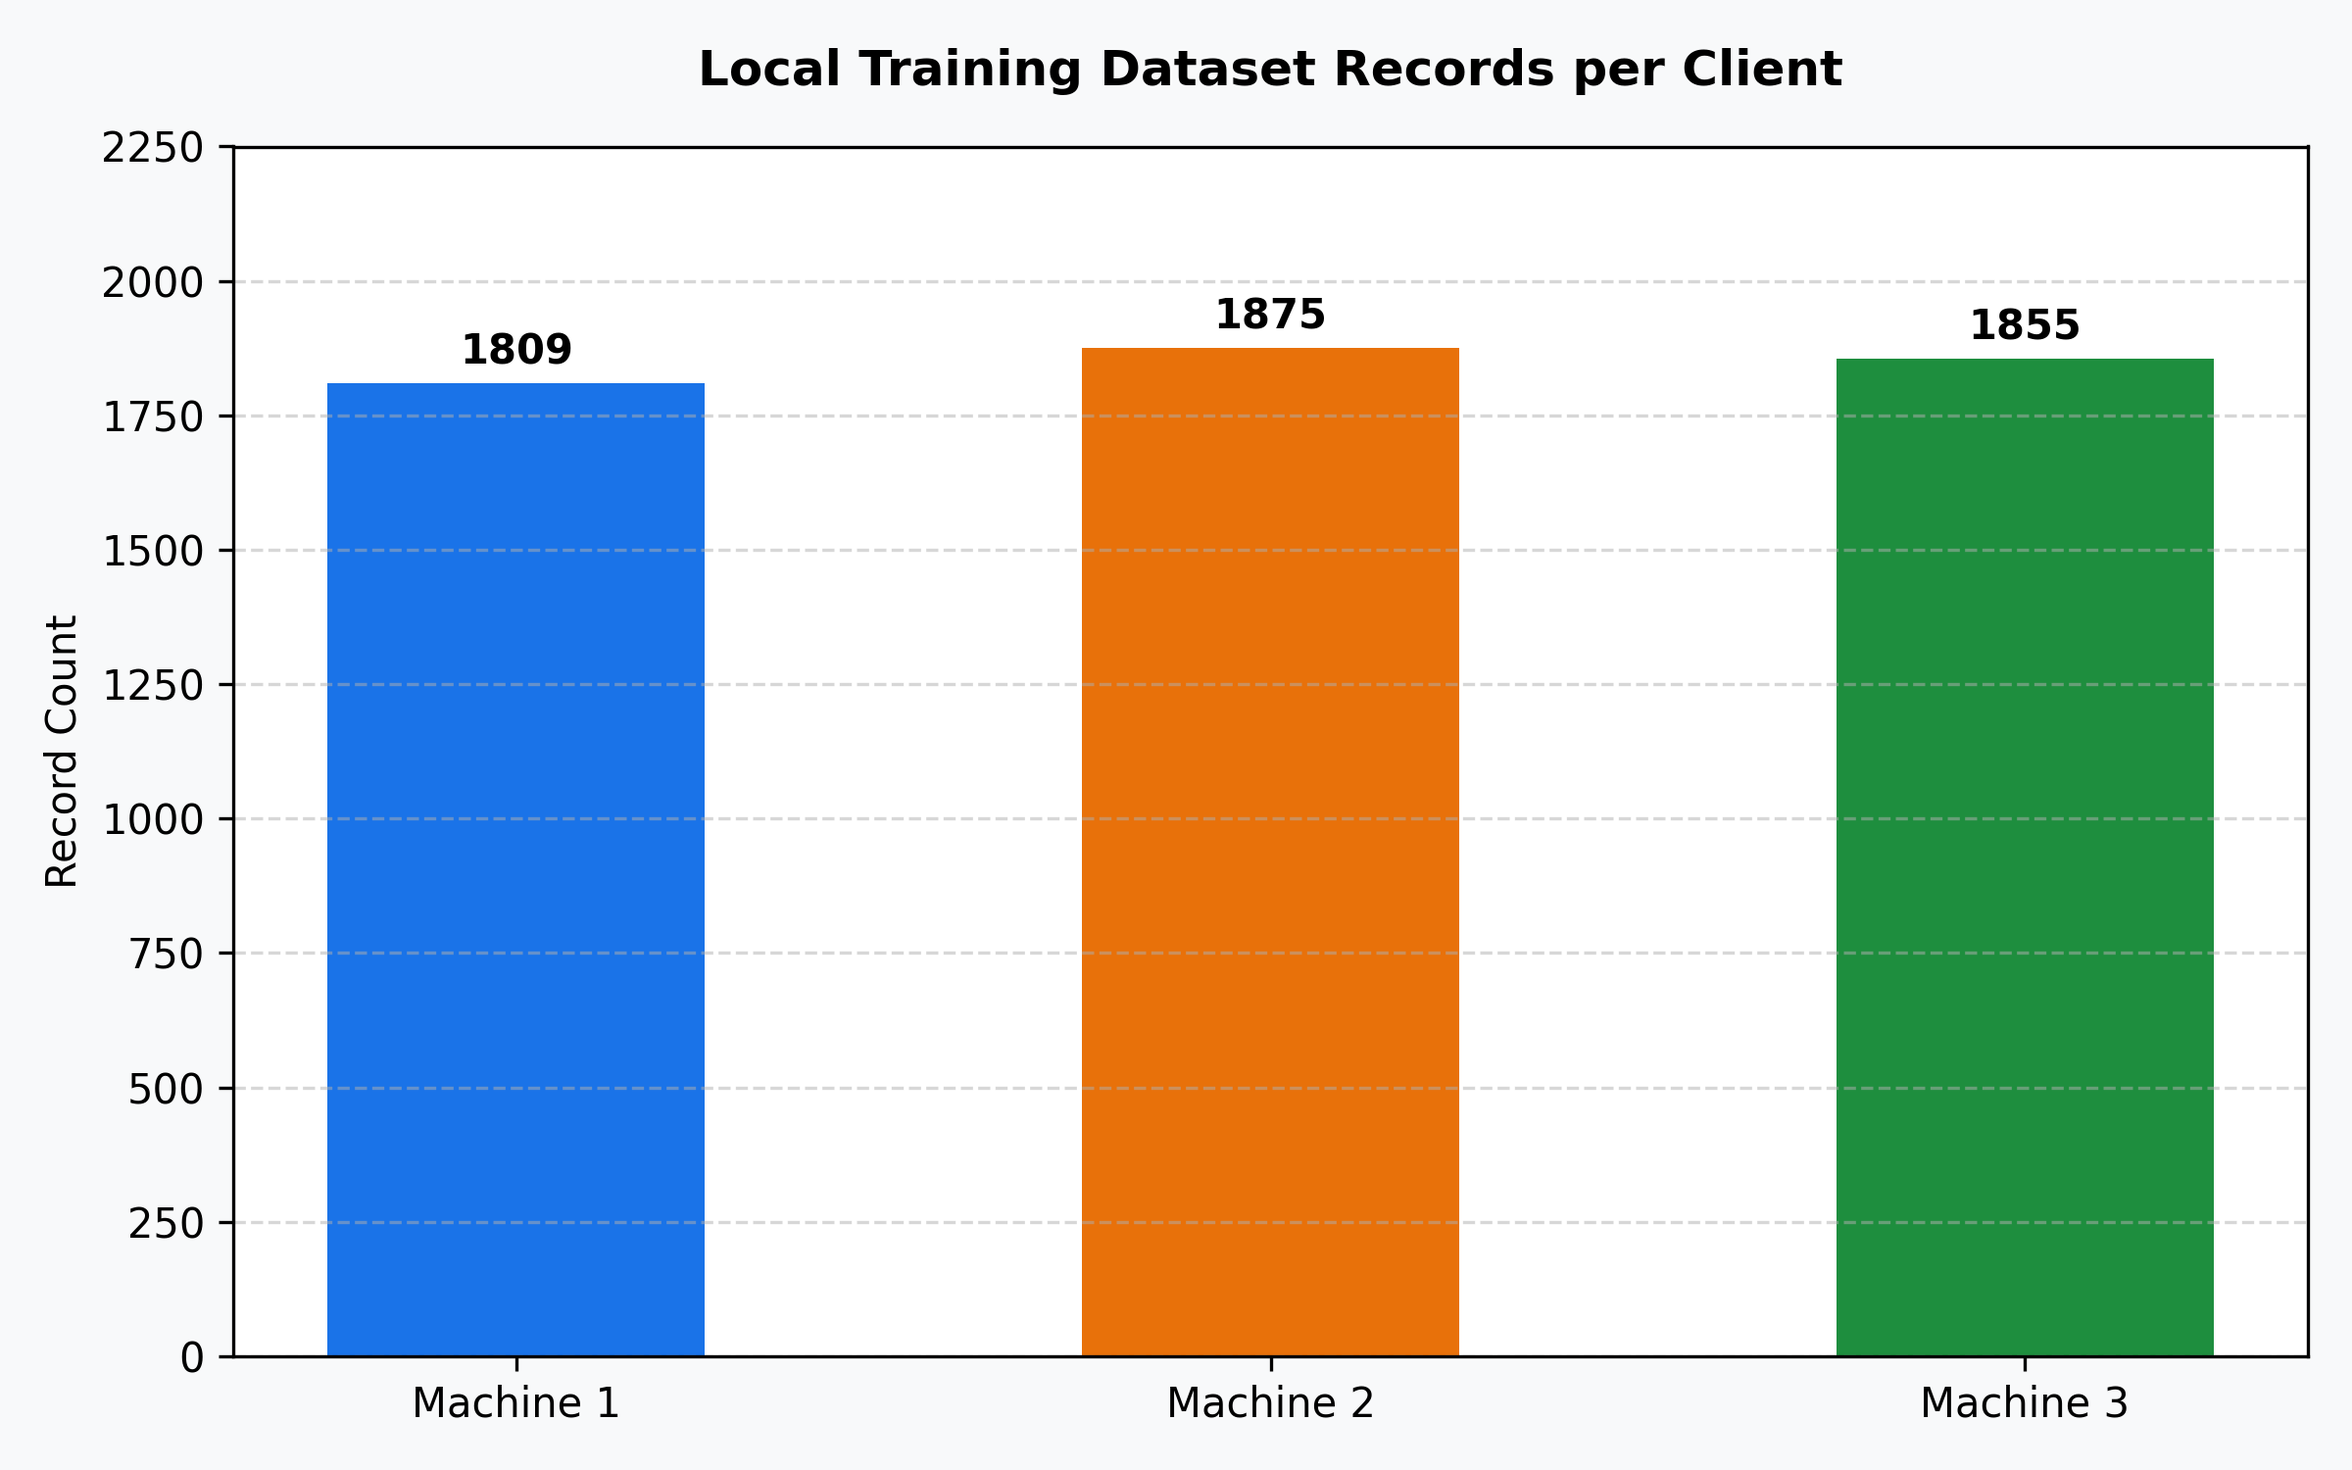
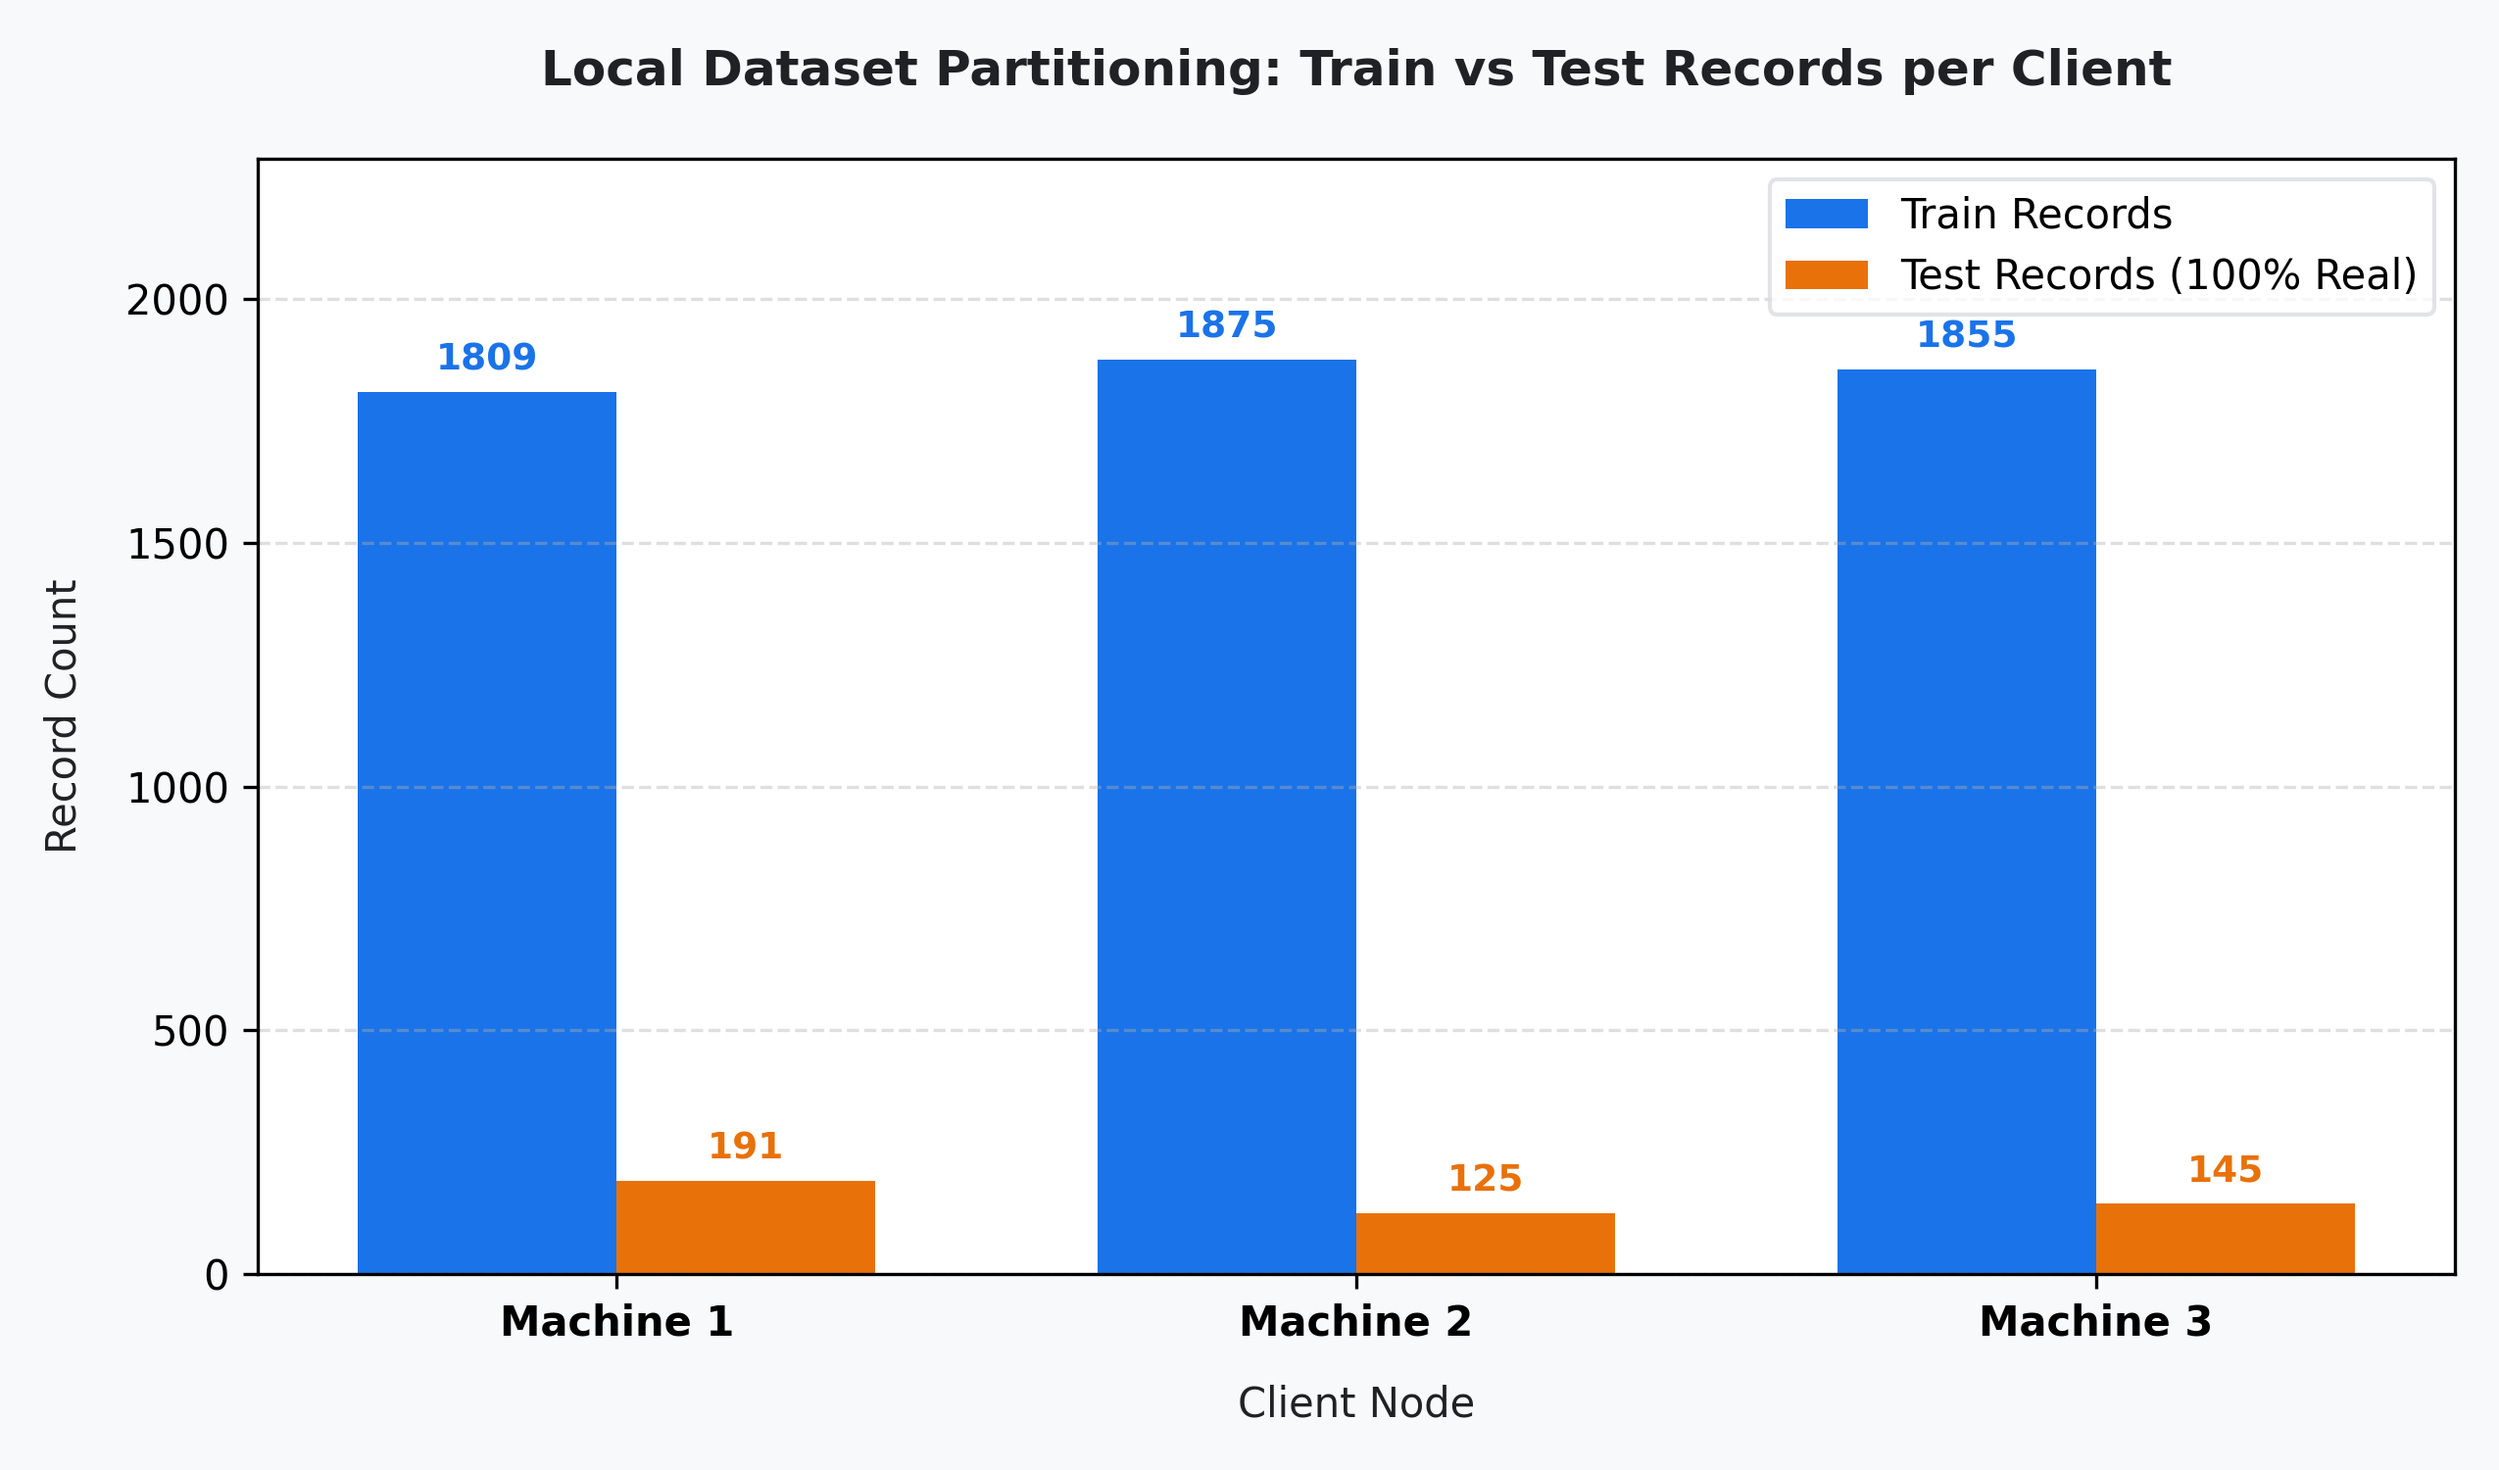
Update plot_dataset_sizes.png to display grouped side-by-side Train Records vs 100% Real Test Records per client node

diff --git a/server.py b/server.py
@@ -351,18 +351,35 @@ plt.tight_layout()
 plt.savefig(os.path.join(OUT_DIR, "plot_dp_laplace.png"), dpi=300)
 plt.close()
 
-# Plot 3: Dataset Sizes
-fig, ax = plt.subplots(figsize=(8, 5), facecolor=fig_bg)
+# Plot 3: Dataset Sizes (Train vs Test Breakdown)
+fig, ax = plt.subplots(figsize=(8.5, 5), facecolor=fig_bg)
 ax.set_facecolor(card_bg)
-sizes = [m.get_train_size() for m in clients]
-bars = ax.bar(names, sizes, color=['#1a73e8', '#e8710a', '#1e8e3e'], width=0.5)
-for bar in bars:
+
+train_sizes = [m.get_train_size() for m in clients]
+test_sizes  = [len(m.get_test_data()[1]) for m in clients]
+
+x_indices = np.arange(len(names))
+bar_width = 0.35
+
+bars_train = ax.bar(x_indices - bar_width/2, train_sizes, width=bar_width, label='Train Records', color='#1a73e8', edgecolor='none')
+bars_test  = ax.bar(x_indices + bar_width/2, test_sizes,  width=bar_width, label='Test Records (100% Real)', color='#e8710a', edgecolor='none')
+
+for bar in bars_train:
     yval = bar.get_height()
-    ax.text(bar.get_x() + bar.get_width()/2.0, yval + 20, f"{yval}", ha='center', va='bottom', fontweight='bold')
-ax.set_title("Local Training Dataset Records per Client", fontsize=12, fontweight='bold', pad=15)
-ax.set_ylabel("Record Count", fontsize=10)
-ax.set_ylim(0, max(sizes) * 1.2)
-ax.grid(True, linestyle='--', alpha=0.5, axis='y')
+    ax.text(bar.get_x() + bar.get_width()/2.0, yval + 30, f"{yval}", ha='center', va='bottom', fontsize=9, fontweight='bold', color='#1a73e8')
+
+for bar in bars_test:
+    yval = bar.get_height()
+    ax.text(bar.get_x() + bar.get_width()/2.0, yval + 30, f"{yval}", ha='center', va='bottom', fontsize=9, fontweight='bold', color='#e8710a')
+
+ax.set_title("Local Dataset Partitioning: Train vs Test Records per Client", fontsize=12, fontweight='bold', color=TEXT_COLOR, pad=18)
+ax.set_xlabel("Client Node", fontsize=10, color=TEXT_COLOR, labelpad=10)
+ax.set_ylabel("Record Count", fontsize=10, color=TEXT_COLOR, labelpad=10)
+ax.set_xticks(x_indices)
+ax.set_xticklabels(names, fontweight='bold')
+ax.set_ylim(0, max(max(train_sizes), max(test_sizes)) * 1.22)
+ax.grid(True, linestyle='--', alpha=0.4, axis='y')
+ax.legend(loc='upper right', frameon=True, facecolor=card_bg, edgecolor='#dadce0')
 plt.tight_layout()
 plt.savefig(os.path.join(OUT_DIR, "plot_dataset_sizes.png"), dpi=300)
 plt.close()
